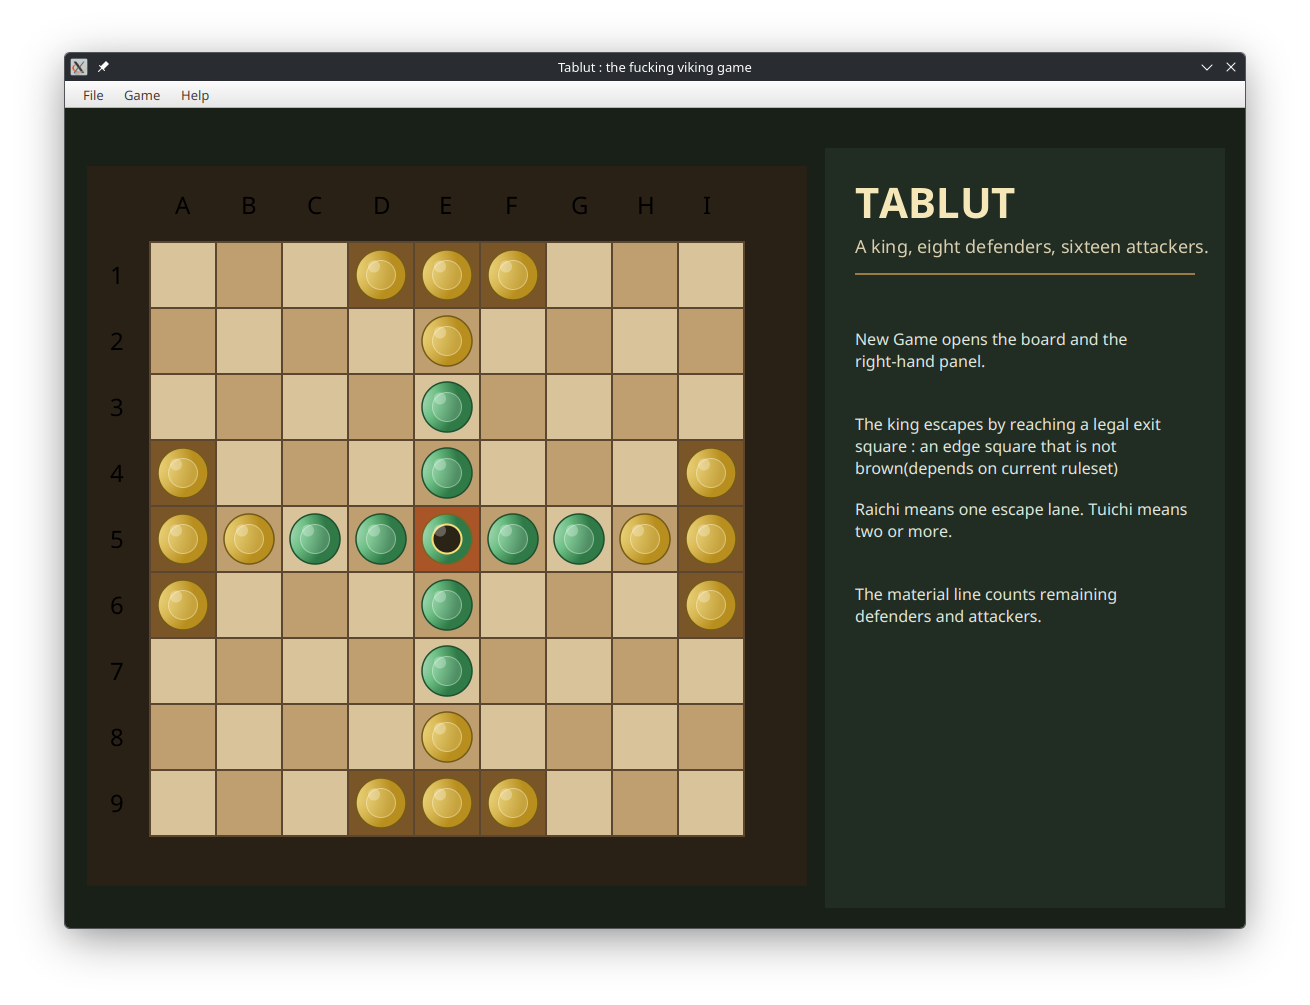
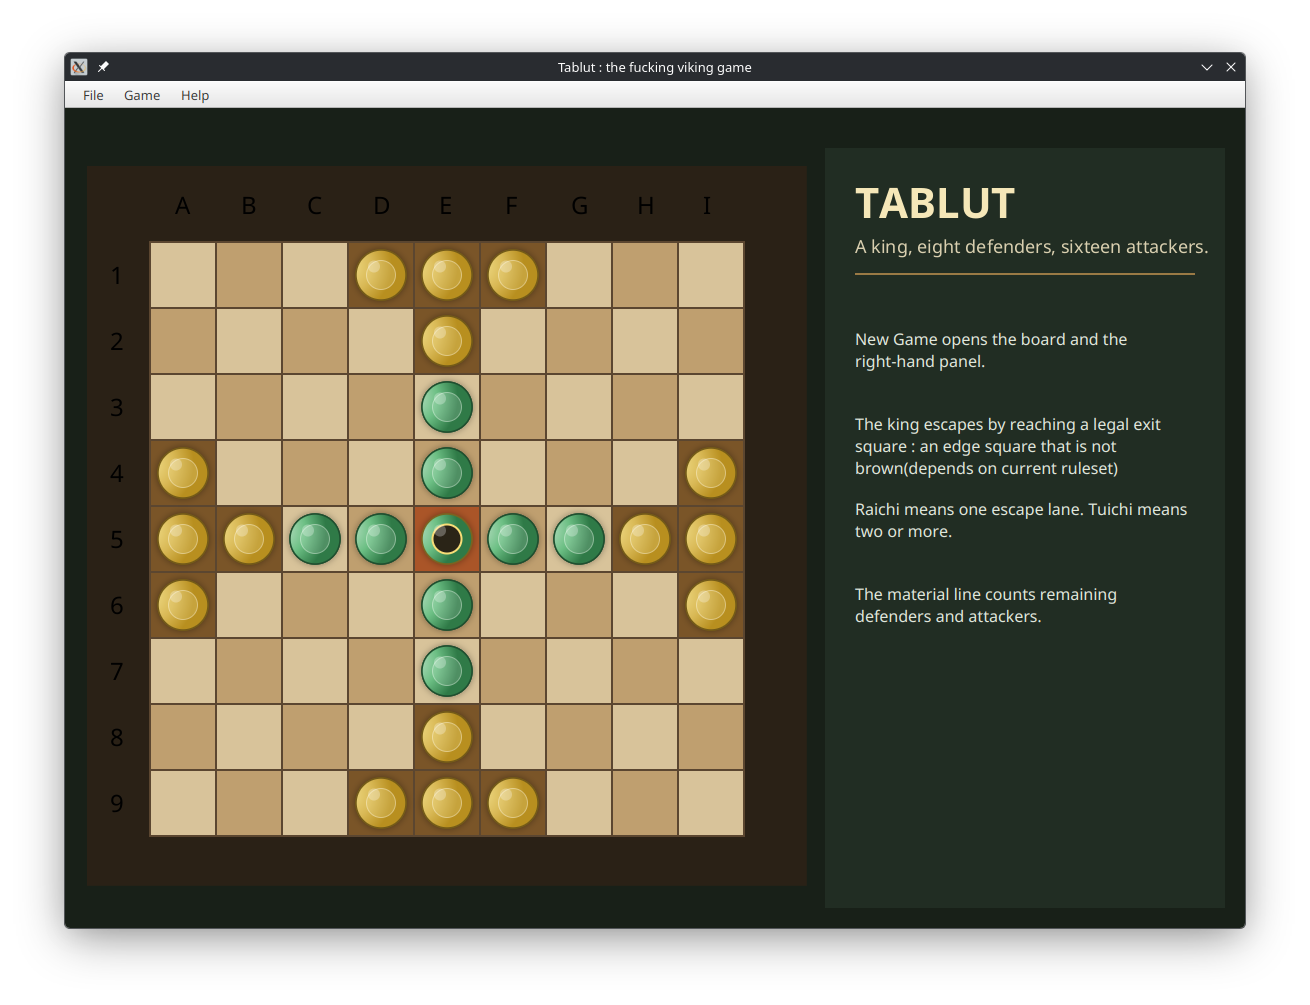
Update images and README.md

diff --git a/README.md b/README.md
@@ -34,5 +34,5 @@ java --module-path PATH_TO_JAVAFX/lib --add-modules javafx.controls,javafx.fxml,
 - Mohamed Bouoiararne
 - Mathis Guihot
 - Damien Lugbull
-- Antoine Mecenero--Chretien
+- Antoine Mecenero--Chretien<br>
 May 2026 - June 2026